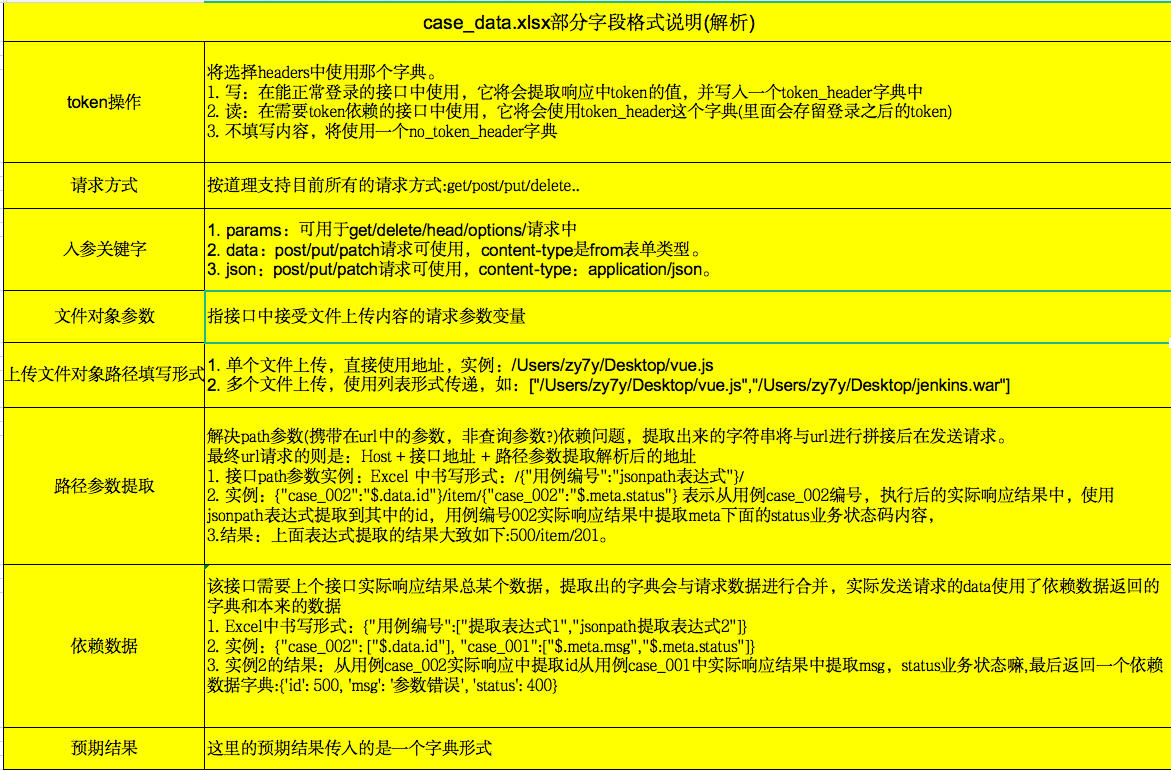
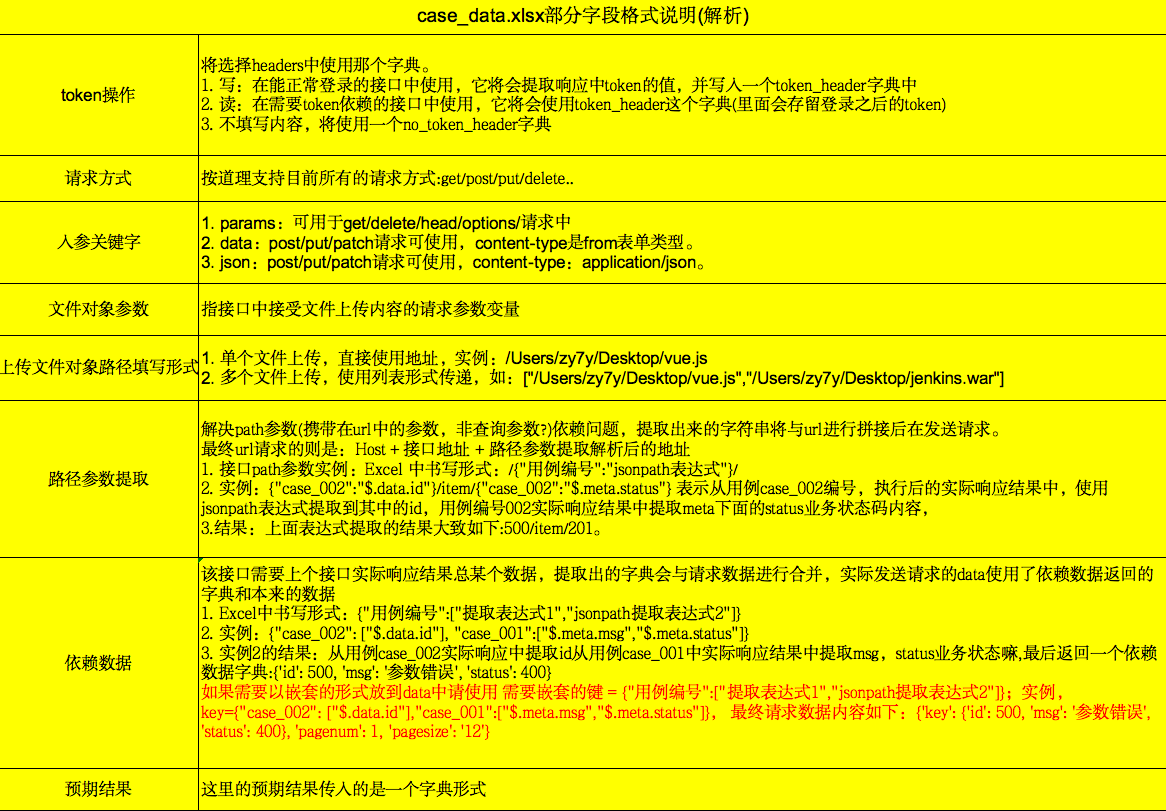
解决：爱学习的小白反馈依赖需要嵌套在请求数据中的问题，优化用例说明文档，allure报告中步骤详细说明，及更新相关文档

diff --git a/test/test_api.py b/test/test_api.py
@@ -56,27 +56,6 @@ class TestApiAuto(object):
                              'file_path, parameters, dependent,data,expect', data_list)
     def test_main(self, case_number, case_title, path, is_token, method, parametric_key, file_var,
                   file_path, parameters, dependent, data, expect):
-        """
-        :param case_number: 用例编号
-        :param case_title: 用例标题
-        :param path: 接口路径
-        :param is_token: token操作：写入token/读取token/不携带token
-        :param method: 请求方式：get/post/put/delete....
-        :param parametric_key: 入参关键字：params/data/json
-        :param file_var: 接口中接受文件对象的参数名称
-        :param file_path: 文件路径，单文件实例：/Users/zy7y/PycharmProjects/apiAutoTest/test/__init__.py
-        多文件实例['/Users/zy7y/PycharmProjects/apiAutoTest/test/__init__.py','/Users/zy7y/PycharmProjects/apiAutoTest/test/test_api.py']
-
-        :param parameters: path参数(携带在url中的参数)依赖处理 users/:id(id携带在url中) 实例:{"case_001": '$.data.id'}，解析
-        从用例编号为case_001的实际结果响应中提取data字典里面的id的内容(假设提取出来是500), 最后请求的路径将是host + users/500
-
-        :param dependent: data数据依赖，该接口需要上一个接口返回的响应中的某个字段及内容：实例{"case_001",["$.data.id","$.data.username"]}
-        解析: 从用例case_001的实际响应结果中提取到data下面的id，与username的值(假设id值为500，username为admin)，那么提取的数据依赖内容将是{"id":500, "username":"admin"}
-        纳闷最终请求的data 将是 {"id":500, "username":"admin"} 与本身的data合并后的内容
-        :param data: 请求数据
-        :param expect:预期结果，最后与config/config.yaml下的response_reg->response提取出来的实际响应内容做对比，实现断言
-        :return:
-        """
 
         # 感谢：https://www.cnblogs.com/yoyoketang/p/13386145.html，提供动态添加标题的实例代码
         # 动态添加标题
@@ -85,23 +64,37 @@ class TestApiAuto(object):
         logger.debug(f'⬇⬇⬇...执行用例编号:{case_number}...⬇⬇⬇')
         with allure.step("处理相关数据依赖，header"):
             data, header, parameters_path_url = treat_data.treating_data(is_token, parameters, dependent, data, save_response_dict)
+            allure.attach(json.dumps(header, ensure_ascii=False, indent=4), "请求头", allure.attachment_type.TEXT)
+            allure.attach(json.dumps(data, ensure_ascii=False, indent=4), "请求数据", allure.attachment_type.TEXT)
+
         with allure.step("发送请求，取得响应结果的json串"):
+            allure.attach(json.dumps(base_url + path + parameters_path_url, ensure_ascii=False, indent=4), "最终请求地址", allure.attachment_type.TEXT)
             res = br.base_requests(method=method, url=base_url + path + parameters_path_url, parametric_key=parametric_key, file_var=file_var, file_path=file_path,
                                    data=data, header=header)
+            allure.attach(json.dumps(res, ensure_ascii=False, indent=4), "实际响应", allure.attachment_type.TEXT)
+
         with allure.step("将响应结果的内容写入实际响应字典中"):
             save_response_dict.save_actual_response(case_key=case_number, case_response=res)
+            allure.attach(json.dumps(save_response_dict.actual_response, ensure_ascii=False, indent=4), "实际响应字典", allure.attachment_type.TEXT)
+
             # 写token的接口必须是要正确无误能返回token的
             if is_token == '写':
                 with allure.step("从登录后的响应中提取token到header中"):
                     treat_data.token_header['Authorization'] = jsonpath.jsonpath(res, token_reg)[0]
+
         with allure.step("根据配置文件的提取响应规则提取实际数据"):
             really = jsonpath.jsonpath(res, res_reg)[0]
+            allure.attach(json.dumps(really, ensure_ascii=False, indent=4), "提取用于断言的实际响应部分数据", allure.attachment_type.TEXT)
+
         with allure.step("处理读取出来的预期结果响应"):
             expect = json.loads(expect)
+            allure.attach(json.dumps(expect, ensure_ascii=False, indent=4), "预期响应", allure.attachment_type.TEXT)
+
         with allure.step("预期结果与实际响应进行断言操作"):
-            assert really == expect
             logger.info(f'完整的json响应: {res}\n需要校验的数据字典: {really} 预期校验的数据字典: {expect} \n测试结果: {really == expect}')
             logger.debug(f'⬆⬆⬆...用例编号:{case_number},执行完毕,日志查看...⬆⬆⬆\n\n')
+            allure.attach(json.dumps(really == expect, ensure_ascii=False, indent=4), "测试结果", allure.attachment_type.TEXT)
+            assert really == expect
 
 
 if __name__ == '__main__':

diff --git a/apiAutoTest用例说明.md b/apiAutoTest用例说明.md
@@ -7,7 +7,7 @@
 | 文件对象参数             | 指接口中接受文件上传内容的请求参数变量                       |
 | 上传文件对象路径填写形式 | 1. 单个文件上传，直接使用地址，实例：/Users/zy7y/Desktop/vue.js 2. 多个文件上传，使用列表形式传递，如：["/Users/zy7y/Desktop/vue.js","/Users/zy7y/Desktop/jenkins.war"] |
 | 路径参数提取             | 解决path参数(携带在url中的参数，非查询参数?)依赖问题，提取出来的字符串将与url进行拼接后在发送请求。 最终url请求的则是：Host + 接口地址 + 路径参数提取解析后的地址 1. 接口path参数实例：Excel 中书写形式：/{"用例编号":"jsonpath表达式"}/ 实例：{"case_002":"$.data.id"}/item/{"case_002":"$.meta.status"} 表示从用例case_002编号，执行后的实际响应结果中，使用jsonpath表达式提取到其中的id，用例编号002实际响应结果中提取meta下面的status业务状态码内容， 结果：上面表达式提取的结果大致如下:500/item/201。 |
-| 依赖数据                 | 该接口需要上个接口实际响应结果总某个数据，提取出的字典会与请求数据进行合并，实际发送请求的data使用了依赖数据返回的字典和本来的数据 1. Excel中书写形式：{"用例编号":["提取表达式1","jsonpath提取表达式2"]} 2. 实例：{"case_002": ["$.data.id"], "case_001":["$.meta.msg","$.meta.status"]} 3. 实例2的结果：从用例case_002实际响应中提取id从用例case_001中实际响应结果中提取msg，status业务状态嘛,最后返回一个依赖数据字典:{'id': 500, 'msg': '参数错误', 'status': 400} |
+| 依赖数据                 | 该接口需要上个接口实际响应结果总某个数据，提取出的字典会与请求数据进行合并，实际发送请求的data使用了依赖数据返回的字典和本来的数据 1. Excel中书写形式：{"用例编号":["提取表达式1","jsonpath提取表达式2"]} 2. 实例：{"case_002": ["$.data.id"], "case_001":["$.meta.msg","$.meta.status"]} 3. 实例2的结果：从用例case_002实际响应中提取id从用例case_001中实际响应结果中提取msg，status业务状态嘛,最后返回一个依赖数据字典:{'id': 500, 'msg': '参数错误', 'status': 400} ;如果需要以嵌套的形式放到data中请使用 需要嵌套的键 = {"用例编号":["提取表达式1","jsonpath提取表达式2"]}；实例，key={"case_002": ["$.data.id"],"case_001":["$.meta.msg","$.meta.status"]}， 最终请求数据内容如下：{'key': {'id': 500, 'msg': '参数错误', 'status': 400}, 'pagenum': 1, 'pagesize': '12'}|
 | 预期结果                 | 这里的预期结果传入的是一个字典形式                           |
 
 # ⚠：case_data.xlsx文件中sheet页'用例说明文档'中也有
